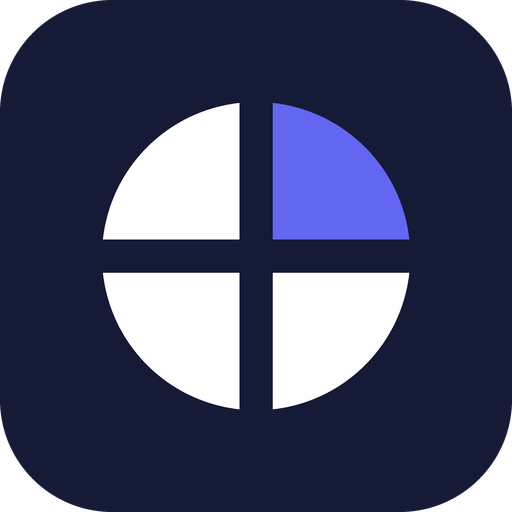
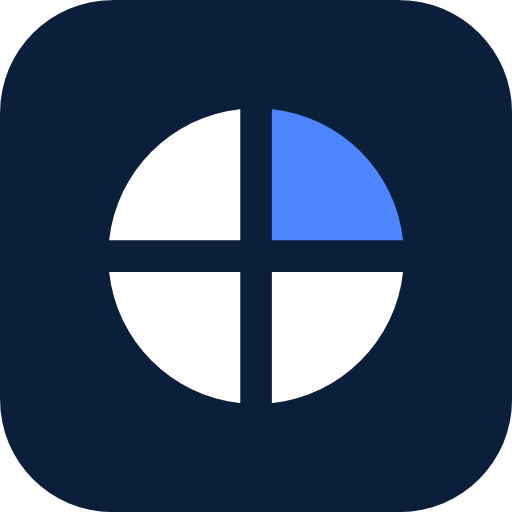
Tillbaka till de tidigare färgerna, neutral huvudknapp och mer kontrast
- Färgerna, loggan och ikonerna tillbaka som före indigo-försöket; avdelningsfärgerna tas bort
- Huvudknappen (Läs rapporten m.fl.) är nästan svart i stället för mörkblå
- Lite mörkare grå bakgrund, tydligare kanter och svag skugga så att korten syns mot bakgrunden
- Min bevakning, senaste sökningar och favicon-filerna (i de gamla färgerna) finns kvar

diff --git a/site/assets/style.css b/site/assets/style.css
@@ -8,32 +8,27 @@
 /* ---------- Färger och mått ---------- */
 
 :root {
-  /* Ljust läge: gråblå botten som inte bländar, vita kort med tydlig kant och en indigo accent */
-  --canvas: #eceff5;
+  --canvas: #ebedf0;
   --bg: #ffffff;
-  --bg-subtle: #f5f6fa;
-  --bg-hover: #eff1f8;
-  --fg: #0e1424;
-  --fg-soft: #2c3446;
-  --fg-muted: #5d6679;
-  --border: #dfe3ec;
-  --border-strong: #c8cedb;
-  --border-muted: #e9ecf3;
-  --brand: #4f46e5;
-  --brand-ink: #3f37c9;
-  --brand-soft: #eef0ff;
-  --brand-border: #c9cbfa;
-  --navy: #151a36;
-  --navy-2: #1d2348;
-  --navy-fg: #e7e9f6;
-  --navy-muted: #9aa0c3;
-  --logo-ink: #151a36;
-  --logo-dot: #6366f1;
-  --link: #3f37c9;
-  /* Svagt tonade ytor för kort som ska sticka ut, och accentfärger per avdelning */
-  --tint: #f5f6ff;
-  --tint-border: #dcdffb;
-  --acc-aktier: #4f46e5; --acc-fonder: #0d9488; --acc-signaler: #d97706; --acc-sparande: #16a34a; --acc-rantor: #7c3aed; --acc-rapport: #db2777;
+  --bg-subtle: #f8f9fb;
+  --bg-hover: #f2f4f7;
+  --fg: #0c1424;
+  --fg-soft: #2e3a4e;
+  --fg-muted: #627084;
+  --border: #d9dde3;
+  --border-strong: #c5ccd6;
+  --border-muted: #edf0f3;
+  --brand: #1d5bd6;
+  --brand-ink: #1647ab;
+  --brand-soft: #edf2fd;
+  --brand-border: #b9cdf5;
+  --navy: #0b1f3a;
+  --navy-2: #12294a;
+  --navy-fg: #e6ecf5;
+  --navy-muted: #93a3bb;
+  --logo-ink: #0b1f3a;
+  --logo-dot: #2f6bff;
+  --link: #1647ab;
   --pos: #0a7a4a;
   --neg: #c2321c;
   --pos-bg: #e9f7ef;
@@ -48,22 +43,22 @@
   --star-bg: #fff8eb;
   --star-fg: #8a3a0a;
   --dot-warn: #f08c00;
-  --dot-active: #5b61f0;
+  --dot-active: #2e7bf0;
   --dot-index: #b0b8c4;
   --zone: rgba(240, 140, 0, 0.09);
-  --seg-bg: #e4e7f0;
+  --seg-bg: #e2e5ea;
   --seg-active: #ffffff;
-  --chip-bg: #eceef5;
-  --sk-a: #e6e9f1;
-  --sk-b: #f2f4f8;
-  --tip-bg: rgba(21, 26, 54, 0.92);
+  --chip-bg: #f0f2f5;
+  --sk-a: #e9edf1;
+  --sk-b: #f4f6f8;
+  --tip-bg: rgba(12, 20, 36, 0.86);
   --tip-fg: #ffffff;
   --tabbar-bg: rgba(255, 255, 255, 0.94);
   --backdrop: rgba(9, 17, 31, 0.45);
   --radius: 10px;
   --radius-sm: 7px;
-  --shadow-sm: 0 1px 2px rgba(21, 26, 54, 0.05), 0 1px 1px rgba(21, 26, 54, 0.03);
-  --shadow: 0 2px 6px rgba(21, 26, 54, 0.07), 0 1px 2px rgba(21, 26, 54, 0.04);
+  --shadow-sm: 0 1px 2px rgba(12, 20, 36, 0.06), 0 1px 1px rgba(12, 20, 36, 0.03);
+  --shadow: 0 2px 6px rgba(12, 20, 36, 0.08), 0 1px 2px rgba(12, 20, 36, 0.04);
   --shadow-lg: 0 18px 48px rgba(12, 20, 36, 0.16), 0 4px 12px rgba(12, 20, 36, 0.06);
   --font: "Roboto", -apple-system, BlinkMacSystemFont, "Segoe UI", "Helvetica Neue", Arial, sans-serif;
 
@@ -77,11 +72,11 @@
   --glass-edge: rgba(255, 255, 255, 0.9);
   --glass-line: rgba(12, 20, 36, 0.07);
   --glass-shadow: inset 0 1px 0 rgba(255, 255, 255, 0.85), 0 0 0 1px rgba(12, 20, 36, 0.055), 0 12px 32px -14px rgba(12, 20, 36, 0.2), 0 2px 6px -2px rgba(12, 20, 36, 0.06);
-  --aura-1: rgba(99, 102, 241, 0.12);
-  --aura-2: rgba(13, 148, 136, 0.08);
-  --aura-3: rgba(219, 39, 119, 0.04);
+  --aura-1: rgba(47, 107, 255, 0.08);
+  --aura-2: rgba(27, 175, 122, 0.08);
+  --aura-3: rgba(235, 104, 52, 0.05);
   --tabbar-h: 0px;
-  --s1: #5b61f0; --s2: #eb6834; --s3: #1baf7a; --s4: #eda100;
+  --s1: #2a78d6; --s2: #eb6834; --s3: #1baf7a; --s4: #eda100;
   --cat-bostad: #2a78d6; --cat-stat: #eb6834; --cat-kommun: #1baf7a; --cat-bank: #eda100;
   --cat-fastighet: #e87ba4; --cat-foretag: #4a3aa7; --cat-utland: #98a2b3;
   color-scheme: light;
@@ -100,20 +95,17 @@
   --border: #28282a;
   --border-strong: #38383b;
   --border-muted: #1d1d1f;
-  --brand: #6d72f6;
-  --brand-ink: #a9adfb;
-  --brand-soft: rgba(109, 114, 246, 0.15);
-  --brand-border: rgba(169, 173, 251, 0.32);
+  --brand: #4a83f5;
+  --brand-ink: #9db9f7;
+  --brand-soft: rgba(74, 131, 245, 0.14);
+  --brand-border: rgba(157, 185, 247, 0.32);
   --navy: #080809;
   --navy-2: #121213;
   --navy-fg: #e8e8e9;
   --navy-muted: #8a8a8d;
   --logo-ink: #ececec;
-  --logo-dot: #7c80ff;
-  --link: #a9adfb;
-  --tint: #18181b;
-  --tint-border: #2c2c31;
-  --acc-aktier: #8b8ff9; --acc-fonder: #2dd4bf; --acc-signaler: #fbbf24; --acc-sparande: #4ade80; --acc-rantor: #a78bfa; --acc-rapport: #f472b6;
+  --logo-dot: #5a8dff;
+  --link: #9db9f7;
   --pos: #45c785;
   --neg: #ff6f5e;
   --pos-bg: rgba(69, 199, 133, 0.12);
@@ -143,13 +135,13 @@
   --glass-edge: rgba(255, 255, 255, 0.12);
   --glass-line: rgba(255, 255, 255, 0.07);
   --glass-shadow: inset 0 1px 0 rgba(255, 255, 255, 0.06), 0 0 0 1px rgba(255, 255, 255, 0.06), 0 16px 36px -14px rgba(0, 0, 0, 0.75);
-  --aura-1: rgba(109, 114, 246, 0.08);
-  --aura-2: rgba(109, 114, 246, 0.06);
+  --aura-1: rgba(74, 131, 245, 0.07);
+  --aura-2: rgba(74, 131, 245, 0.06);
   --aura-3: rgba(255, 255, 255, 0.02);
   --shadow-sm: none;
   --shadow: 0 1px 3px rgba(0, 0, 0, 0.5);
   --shadow-lg: 0 20px 50px rgba(0, 0, 0, 0.65);
-  --s1: #7c80ff; --s2: #d95926; --s3: #199e70; --s4: #c98500;
+  --s1: #3987e5; --s2: #d95926; --s3: #199e70; --s4: #c98500;
   --cat-bostad: #3987e5; --cat-stat: #d95926; --cat-kommun: #199e70; --cat-bank: #c98500;
   --cat-fastighet: #d55181; --cat-foretag: #9085e9; --cat-utland: #646468;
   color-scheme: dark;
@@ -526,8 +518,9 @@ table.cmp-table td { overflow-wrap: anywhere; }
 .btn { display: inline-flex; align-items: center; justify-content: center; gap: 6px; font: inherit; font-size: 14px; font-weight: 600; color: var(--fg-soft); background: var(--bg); border: 1px solid var(--border-strong); border-radius: 999px; height: 40px; padding: 0 18px; cursor: pointer; box-shadow: var(--shadow-sm); transition: background 0.15s, border-color 0.15s, color 0.15s, transform 0.08s; }
 .btn:hover { background: var(--bg-subtle); color: var(--fg); text-decoration: none; border-color: var(--fg-muted); }
 a.btn { color: var(--fg-soft); }
-.btn-primary, a.btn-primary { background: linear-gradient(180deg, #1b3a66, var(--navy)); border-color: var(--navy); color: #fff; box-shadow: inset 0 1px 0 rgba(255, 255, 255, 0.14), 0 1px 2px rgba(11, 31, 58, 0.3), 0 6px 16px -8px rgba(11, 31, 58, 0.55); }
-.btn-primary:hover, a.btn-primary:hover { background: linear-gradient(180deg, #22457a, var(--navy-2)); border-color: var(--navy-2); color: #fff; }
+/* Huvudknappen är nästan svart och neutral, inte blå */
+.btn-primary, a.btn-primary { background: linear-gradient(180deg, #2c2f36, #17191d); border-color: #17191d; color: #fff; box-shadow: inset 0 1px 0 rgba(255, 255, 255, 0.12), 0 1px 2px rgba(15, 17, 20, 0.3), 0 6px 16px -8px rgba(15, 17, 20, 0.5); }
+.btn-primary:hover, a.btn-primary:hover { background: linear-gradient(180deg, #383c44, #202328); border-color: #202328; color: #fff; }
 :root[data-theme="dark"] .btn-primary, :root[data-theme="dark"] a.btn-primary { background: #ececec; border-color: #ececec; color: #0a0a0b; box-shadow: 0 1px 2px rgba(0, 0, 0, 0.4); }
 :root[data-theme="dark"] .btn-primary:hover, :root[data-theme="dark"] a.btn-primary:hover { background: #ffffff; border-color: #ffffff; color: #0a0a0b; }
 :root[data-theme="dark"] .btn-primary .btn-tag { background: rgba(0, 0, 0, 0.1); }
@@ -614,8 +607,7 @@ a.btn { color: var(--fg-soft); }
 .hero-stats dd { order: 1; }
 
 /* Vad Fondinsyn är och hur ofta datan uppdateras */
-.about-card { position: relative; display: grid; grid-template-columns: minmax(0, 1.15fr) minmax(0, 1fr); gap: 16px 36px; align-items: center; padding: 20px 24px; margin-bottom: 14px; border-radius: 18px;
-  background: linear-gradient(135deg, var(--tint) 0%, var(--bg) 70%); border: 1px solid var(--tint-border); }
+.about-card { position: relative; display: grid; grid-template-columns: minmax(0, 1.15fr) minmax(0, 1fr); gap: 16px 36px; align-items: center; padding: 20px 24px; margin-bottom: 14px; border-radius: 18px; background: var(--bg); border: 1px solid var(--border); }
 .ac-text h2 { font-size: 16px; font-weight: 700; margin-bottom: 6px; }
 .ac-text p { font-size: 14px; line-height: 1.6; color: var(--fg-soft); max-width: 62ch; }
 .ac-text a { font-weight: 600; white-space: nowrap; }
@@ -629,8 +621,7 @@ a.btn { color: var(--fg-soft); }
 .ac-close:hover { background: var(--bg-hover); color: var(--fg); }
 
 /* Kvartalsrapporten i liten form överst på startsidan */
-.rep-card { position: relative; display: flex; align-items: center; justify-content: space-between; gap: 18px 32px; flex-wrap: wrap; padding: 20px 24px; border-radius: 20px; box-shadow: var(--shadow);
-  background: linear-gradient(115deg, color-mix(in srgb, var(--brand) 10%, var(--bg)) 0%, var(--bg) 52%, color-mix(in srgb, var(--acc-fonder) 8%, var(--bg)) 100%); border: 1px solid var(--tint-border); }
+.rep-card { position: relative; display: flex; align-items: center; justify-content: space-between; gap: 18px 32px; flex-wrap: wrap; padding: 20px 24px; border-radius: 20px; background: var(--glass); box-shadow: var(--glass-shadow); }
 .rc-main { min-width: 0; flex: 1 1 420px; display: flex; flex-direction: column; gap: 6px; }
 .rc-title { font-size: 21px; font-weight: 700; letter-spacing: -0.015em; line-height: 1.25; color: var(--fg); text-wrap: balance; }
 .rc-title:hover { color: var(--brand-ink); text-decoration: none; }
@@ -691,8 +682,8 @@ a.btn { color: var(--fg-soft); }
 .quick { display: grid; grid-template-columns: repeat(6, minmax(0, 1fr)); gap: 12px; }
 .ql { display: flex; flex-direction: column; gap: 3px; min-width: 0; padding: 14px 16px 15px; border-radius: 14px; background: var(--bg); border: 1px solid var(--border); color: var(--fg); transition: border-color 0.2s, background 0.2s; }
 .ql:hover { text-decoration: none; border-color: var(--border-strong); background: var(--bg-subtle); }
-.ql-t { font-size: 13px; font-weight: 600; color: var(--fg-muted); display: flex; align-items: center; }
-.ql-t::after { content: "→"; margin-left: auto; color: var(--fg-muted); transition: transform 0.2s var(--ease), color 0.2s; }
+.ql-t { font-size: 13px; font-weight: 600; color: var(--fg-muted); display: flex; justify-content: space-between; align-items: center; }
+.ql-t::after { content: "→"; color: var(--fg-muted); transition: transform 0.2s var(--ease), color 0.2s; }
 .ql:hover .ql-t::after { transform: translateX(3px); color: var(--fg); }
 .ql-v { font-size: 20px; font-weight: 700; letter-spacing: -0.02em; white-space: nowrap; overflow: hidden; text-overflow: ellipsis; }
 .ql-d { font-size: 12.5px; color: var(--fg-muted); line-height: 1.4; }
@@ -708,14 +699,8 @@ a.btn { color: var(--fg-soft); }
 .modules { display: grid; grid-template-columns: repeat(4, minmax(0, 1fr)); gap: 16px; }
 .module { position: relative; background: var(--bg); border: 1px solid var(--border); border-radius: var(--radius-lg); padding: 20px 20px 14px; display: flex; flex-direction: column; min-width: 0; box-shadow: var(--shadow-sm); transition: border-color 0.25s, box-shadow 0.35s var(--spring), transform 0.35s var(--spring); }
 .module:hover { border-color: var(--border-strong); }
-
-/* Avdelningarnas accentfärger: en tunn färgad list överst, en prick vid rubriken och en svag ton nedåt */
-[data-acc="aktier"] { --acc: var(--acc-aktier); } [data-acc="fonder"] { --acc: var(--acc-fonder); } [data-acc="signaler"] { --acc: var(--acc-signaler); }
-[data-acc="sparande"] { --acc: var(--acc-sparande); } [data-acc="rantor"] { --acc: var(--acc-rantor); } [data-acc="rapport"] { --acc: var(--acc-rapport); }
-.ql[data-acc], .module[data-acc] { position: relative; overflow: hidden; background: linear-gradient(180deg, color-mix(in srgb, var(--acc) 7%, var(--bg)) 0%, var(--bg) 60%); }
-.ql[data-acc]::before, .module[data-acc]::before { content: ""; position: absolute; left: 0; right: 0; top: 0; height: 3px; background: var(--acc); }
-.ql[data-acc] .ql-t::before, .module[data-acc] .module-head h2::before { content: ""; display: inline-block; width: 8px; height: 8px; border-radius: 50%; background: var(--acc); margin-right: 8px; vertical-align: 1px; }
-.ql[data-acc]:hover { background: linear-gradient(180deg, color-mix(in srgb, var(--acc) 12%, var(--bg)) 0%, var(--bg) 70%); }
+/* Korten lyfter svagt från bakgrunden (ingen skugga i mörkt läge) */
+.ql, .module, .about-card, .mgr, .panel { box-shadow: var(--shadow-sm); }
 .module-head { display: flex; align-items: baseline; justify-content: space-between; gap: 8px; margin-bottom: 6px; }
 .module-head h2 { font-size: 16px; font-weight: 700; }
 .module-head a { font-size: 12.5px; font-weight: 600; white-space: nowrap; }

diff --git a/site/embed.html b/site/embed.html
@@ -14,9 +14,9 @@
 -->
 <style>
 @font-face { font-family: "Roboto"; src: url("assets/fonts/roboto-var.woff2") format("woff2"); font-weight: 100 900; font-display: swap; }
-:root { --bg: #ffffff; --fg: #0c1424; --muted: #627084; --line: #e2e6eb; --pos: #0a7a4a; --neg: #c2321c; --brand: #4f46e5; --soft: #f4f6f8; --dot: #6366f1; --ink: #151a36; }
-@media (prefers-color-scheme: dark) { :root:not(.light) { --bg: #141415; --fg: #ececec; --muted: #909093; --line: #28282a; --pos: #45c785; --neg: #ff6f5e; --brand: #a9adfb; --soft: #1d1d1f; --dot: #7c80ff; --ink: #ececec; } }
-:root.dark { --bg: #141415; --fg: #ececec; --muted: #909093; --line: #28282a; --pos: #45c785; --neg: #ff6f5e; --brand: #a9adfb; --soft: #1d1d1f; --dot: #7c80ff; --ink: #ececec; }
+:root { --bg: #ffffff; --fg: #0c1424; --muted: #627084; --line: #e2e6eb; --pos: #0a7a4a; --neg: #c2321c; --brand: #1d5bd6; --soft: #f4f6f8; --dot: #2f6bff; --ink: #0b1f3a; }
+@media (prefers-color-scheme: dark) { :root:not(.light) { --bg: #141415; --fg: #ececec; --muted: #909093; --line: #28282a; --pos: #45c785; --neg: #ff6f5e; --brand: #9db9f7; --soft: #1d1d1f; --dot: #5a8dff; --ink: #ececec; } }
+:root.dark { --bg: #141415; --fg: #ececec; --muted: #909093; --line: #28282a; --pos: #45c785; --neg: #ff6f5e; --brand: #9db9f7; --soft: #1d1d1f; --dot: #5a8dff; --ink: #ececec; }
 * { box-sizing: border-box; }
 html, body { margin: 0; background: transparent; }
 :root { color-scheme: light dark; } :root.light { color-scheme: light; } :root.dark { color-scheme: dark; }

diff --git a/site/assets/app.js b/site/assets/app.js
@@ -629,7 +629,7 @@
     var policy = (f.rates || []).filter(function (r) { return r[0] === "SECBREPOEFF"; })[0];
     var sav = f.savings;
     var tile = function (href, title, value, desc) {
-      return '<a class="ql" data-acc="' + href.replace(/^#\//, "") + '" href="' + href + '"><span class="ql-t">' + title + '</span><span class="ql-v">' + value + '</span><span class="ql-d">' + desc + "</span></a>";
+      return '<a class="ql" href="' + href + '"><span class="ql-t">' + title + '</span><span class="ql-v">' + value + '</span><span class="ql-d">' + desc + "</span></a>";
     };
     return '<nav class="quick section-gap" aria-label="Genvägar">' +
       tile("#/aktier", "Aktier", '<span class="' + cls(net) + '">' + bigSek(net, true) + "</span>", "fondernas nettoköp i " + int(t.held) + " " + marketWord() + " aktier") +
@@ -820,7 +820,7 @@
     var f = state.front;
     if (f === false) return "";
     var mod = function (title, href, linkText, desc, inner) {
-      return '<section class="module" data-acc="' + (/rantor/.test(href) ? "rantor" : "signaler") + '"><div class="module-head"><h2>' + title + '</h2><a href="' + href + '">' + linkText + "</a></div>" +
+      return '<section class="module"><div class="module-head"><h2>' + title + '</h2><a href="' + href + '">' + linkText + "</a></div>" +
         (desc ? '<p class="desc">' + desc + "</p>" : "") + inner + "</section>";
     };
     if (!f) {
